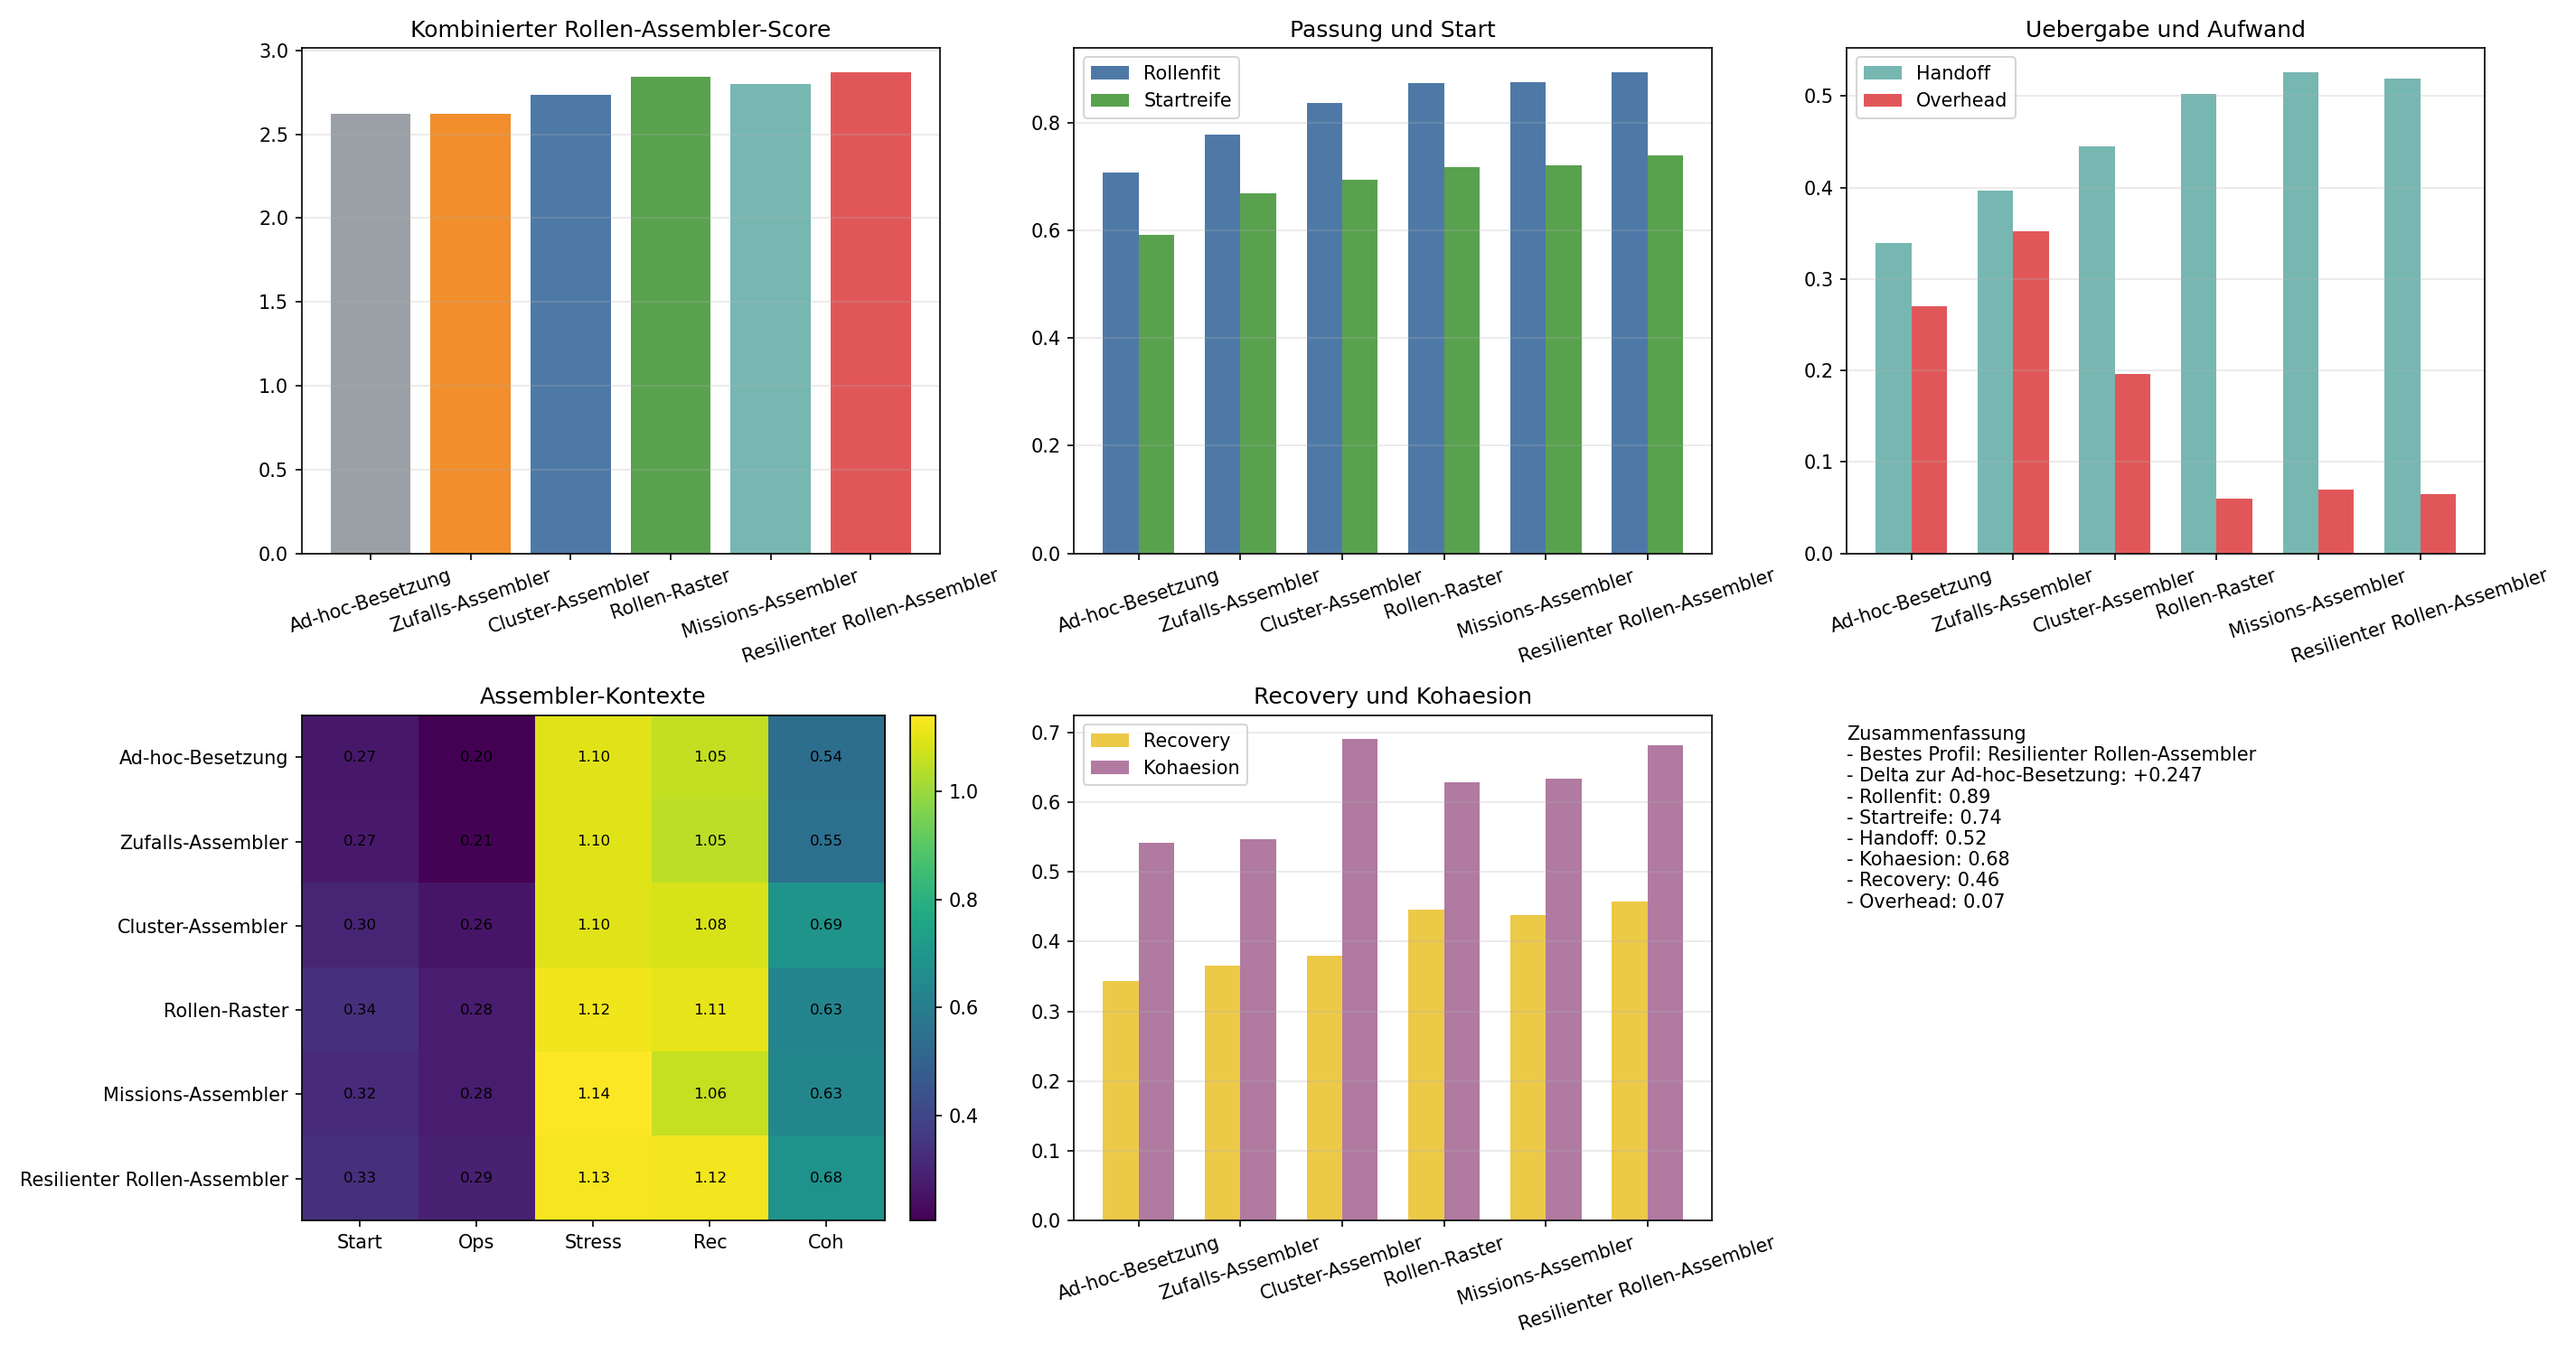
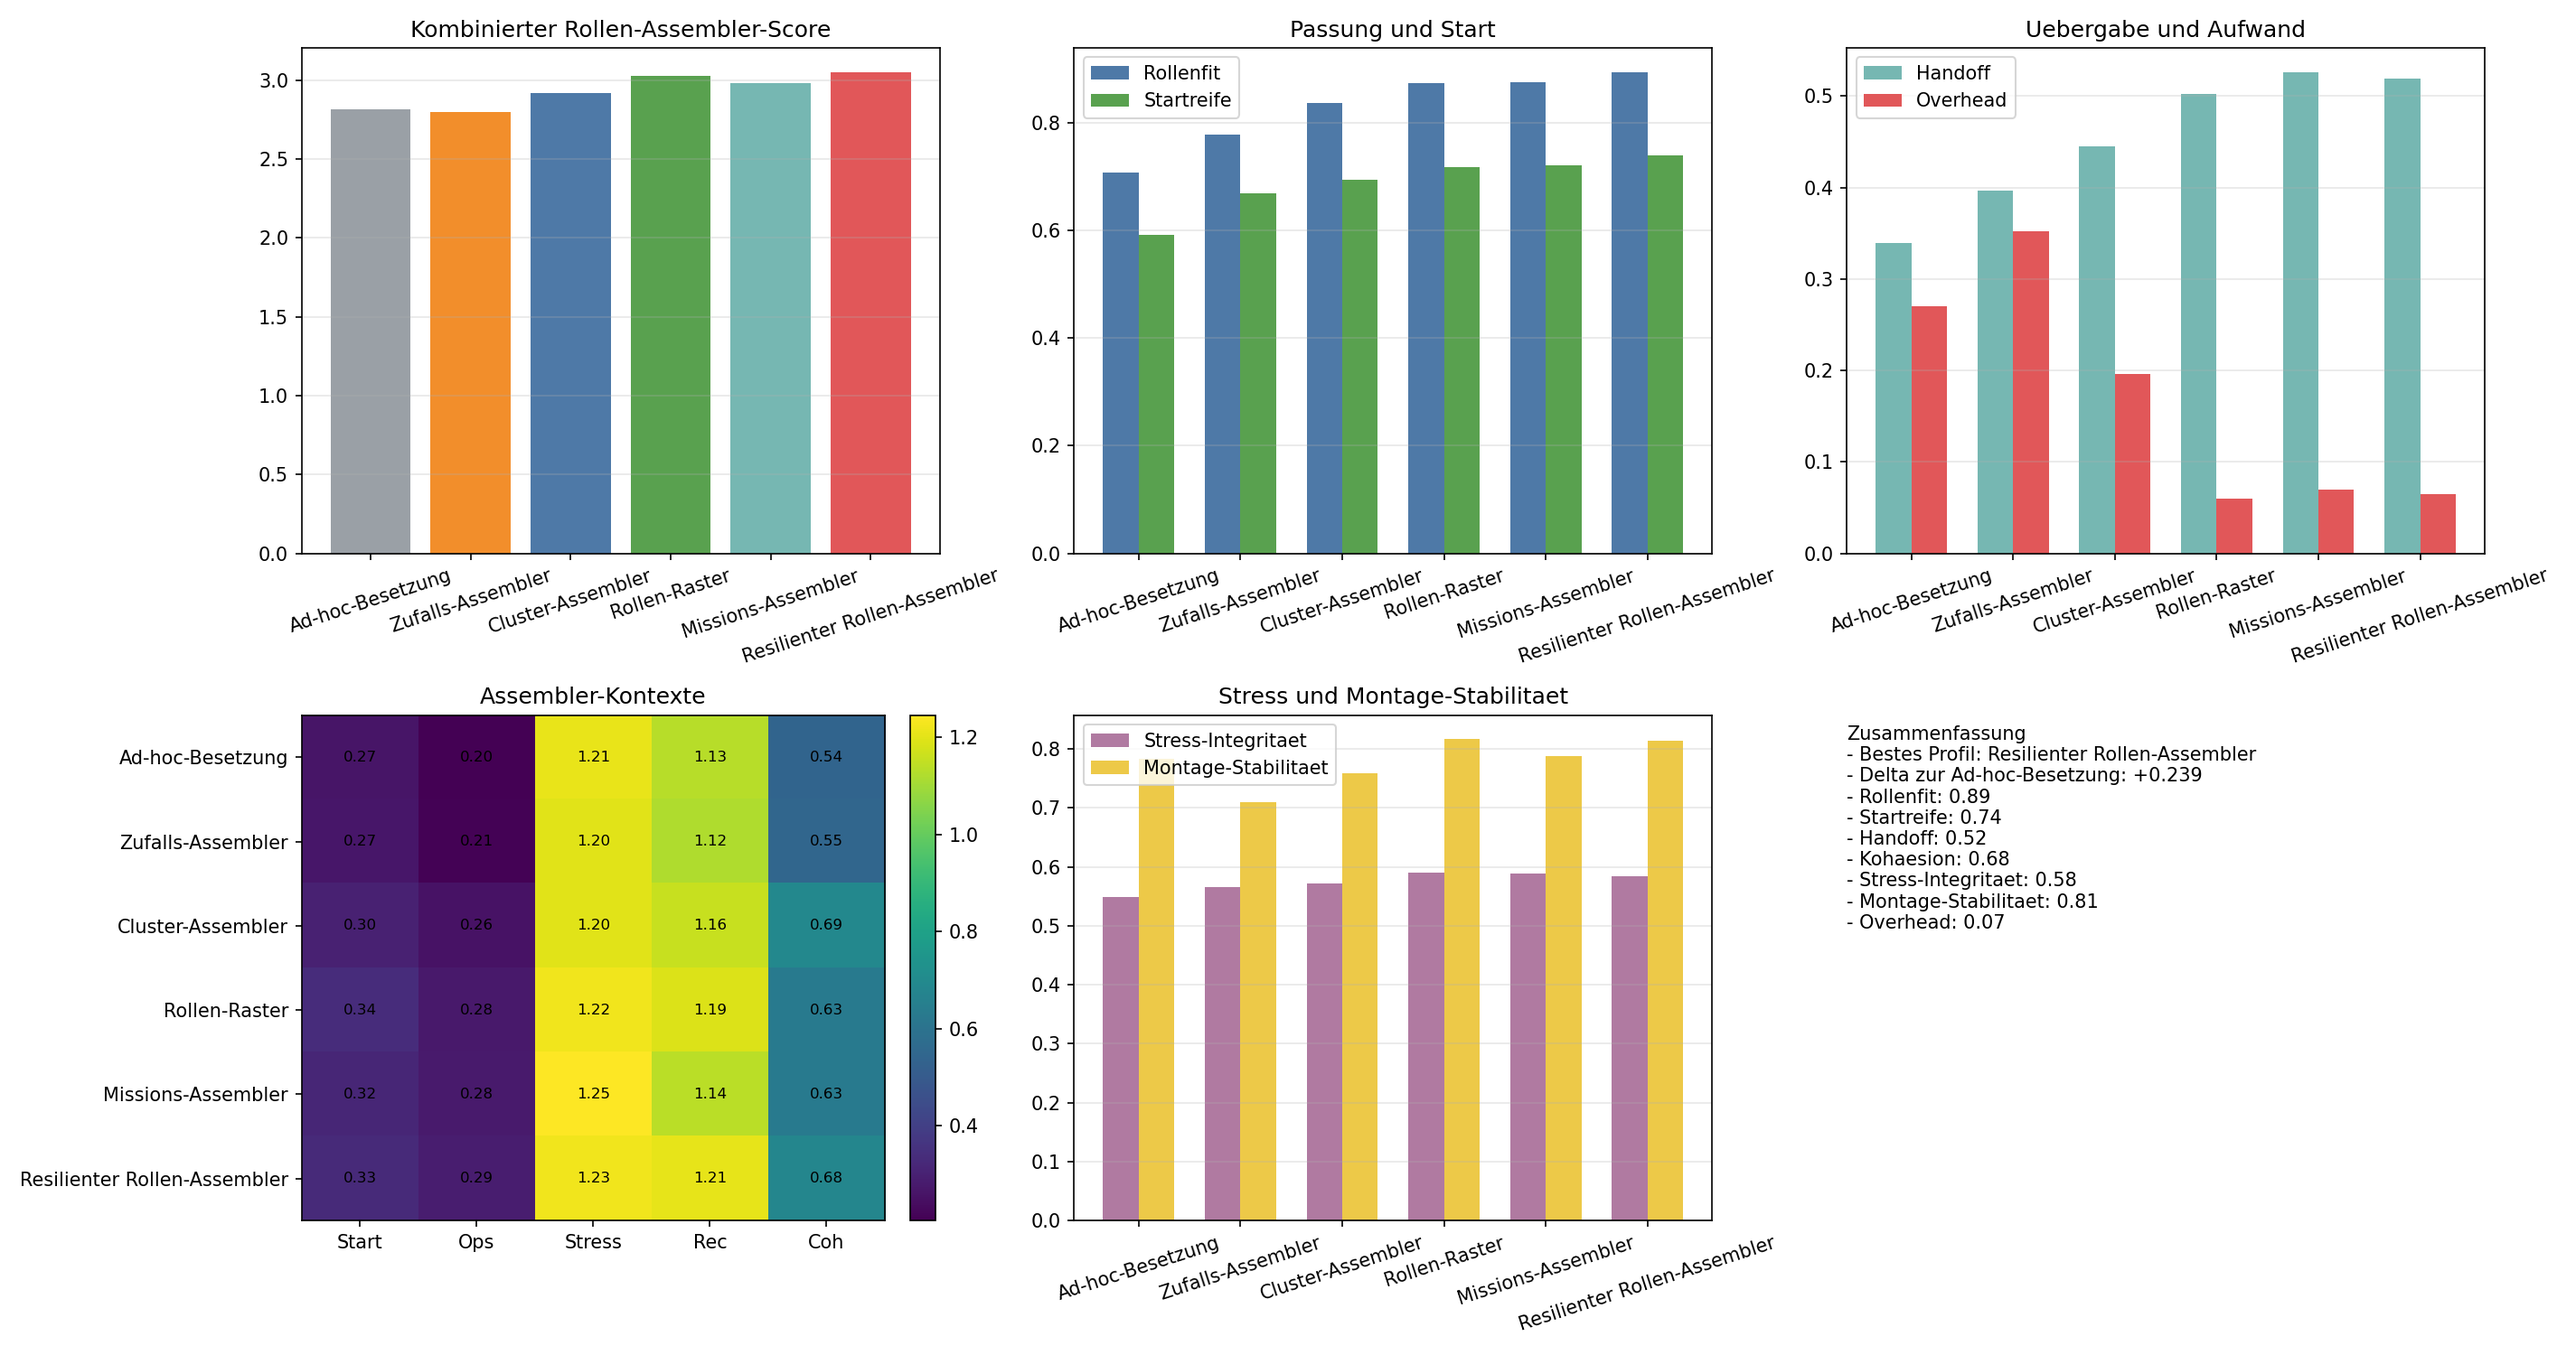
Refine role assembler stability metrics

Changed region(s): [[0.406, 0.4907, 0.6558, 0.92], [0.7182, 0.644, 0.8119, 0.7053]]

diff --git a/schwarm_rollenassembler.py b/schwarm_rollenassembler.py
@@ -293,6 +293,28 @@ def assembler_metrics(config, result, params, profile):
             ]
         )
     )
+    stress_integrity = clamp01(
+        mittelwert(
+            [
+                workflow.get('trust_shield_mean', 0.0),
+                workflow.get('sync_strength_mean', 0.0),
+                1.0 - workflow.get('misinformation_corruption_mean', 0.0),
+                1.0 - workflow.get('cluster_compromise_mean', 0.0),
+                handoff_readiness,
+            ]
+        )
+    )
+    assembly_stability = clamp01(
+        mittelwert(
+            [
+                role_fit,
+                assembly_cohesion,
+                workflow.get('completion_rate', 0.0),
+                workflow.get('resource_efficiency', 0.0),
+                1.0 - failed_share,
+            ]
+        )
+    )
     assembler_overhead = clamp01(
         mittelwert(
             [
@@ -324,6 +346,8 @@ def assembler_metrics(config, result, params, profile):
         'handoff_readiness': handoff_readiness,
         'assembly_cohesion': assembly_cohesion,
         'recovery_margin': recovery_margin,
+        'stress_integrity': stress_integrity,
+        'assembly_stability': assembly_stability,
         'assembler_overhead': assembler_overhead,
     }
 
@@ -389,15 +413,15 @@ def context_score(kontext_name, result, agent_count):
     if kontext_name == 'stress':
         return (
             base
-            + 0.14 * metrics['recovery_margin']
+            + 0.14 * metrics['stress_integrity']
             + 0.12 * metrics['assembly_cohesion']
-            - 0.14 * metrics['corruption_mean']
-            - 0.10 * metrics['cluster_compromise_mean']
+            + 0.10 * metrics['assembly_stability']
             - 0.08 * metrics['assembler_overhead']
         )
     return (
         base
         + 0.18 * metrics['recovery_margin']
+        + 0.10 * metrics['assembly_stability']
         + 0.12 * recoveries
         + 0.08 * metrics['handoff_readiness']
         - 0.12 * failed_share
@@ -413,6 +437,8 @@ def summarize_runs(runs, profile, context_list, agent_count):
         'handoff_readiness': {},
         'assembly_cohesion': {},
         'recovery_margin': {},
+        'stress_integrity': {},
+        'assembly_stability': {},
         'assembler_overhead': {},
     }
 
@@ -468,7 +494,7 @@ def main():
             f"{summary['label']:<28} Score={summary['combined_score']:+.3f} | "
             f"Fit={summary['role_fit']['startup']:.2f} | "
             f"Handoff={summary['handoff_readiness']['operations']:.2f} | "
-            f"Recovery={summary['recovery_margin']['recovery']:.2f}"
+            f"Stabilitaet={summary['assembly_stability']['stress']:.2f}"
         )
 
     best = max(summaries, key=lambda item: item['combined_score'])
@@ -482,7 +508,7 @@ def main():
     print(
         f"Rollenfit {best['role_fit']['startup']:.2f}, "
         f"Handoff {best['handoff_readiness']['operations']:.2f}, "
-        f"Recovery {best['recovery_margin']['recovery']:.2f}"
+        f"Stress-Integritaet {best['stress_integrity']['stress']:.2f}"
     )
 
     labels = [item['label'] for item in summaries]
@@ -564,19 +590,19 @@ def main():
 
     axes[1, 1].bar(
         x - width / 2,
-        [item['recovery_margin']['recovery'] for item in summaries],
+        [item['stress_integrity']['stress'] for item in summaries],
         width,
-        label='Recovery',
-        color='#edc948',
+        label='Stress-Integritaet',
+        color='#b07aa1',
     )
     axes[1, 1].bar(
         x + width / 2,
-        [item['assembly_cohesion']['operations'] for item in summaries],
+        [item['assembly_stability']['recovery'] for item in summaries],
         width,
-        label='Kohaesion',
-        color='#b07aa1',
+        label='Montage-Stabilitaet',
+        color='#edc948',
     )
-    axes[1, 1].set_title('Recovery und Kohaesion')
+    axes[1, 1].set_title('Stress und Montage-Stabilitaet')
     axes[1, 1].set_xticks(x)
     axes[1, 1].set_xticklabels(labels, rotation=18)
     axes[1, 1].legend()
@@ -586,17 +612,18 @@ def main():
     axes[1, 2].text(
         0.0,
         0.98,
-        (
-            "Zusammenfassung\n"
-            f"- Bestes Profil: {best['label']}\n"
-            f"- Delta zur Ad-hoc-Besetzung: {best['combined_score'] - baseline['combined_score']:+.3f}\n"
-            f"- Rollenfit: {best['role_fit']['startup']:.2f}\n"
-            f"- Startreife: {best['assembly_readiness']['startup']:.2f}\n"
-            f"- Handoff: {best['handoff_readiness']['operations']:.2f}\n"
-            f"- Kohaesion: {best['assembly_cohesion']['operations']:.2f}\n"
-            f"- Recovery: {best['recovery_margin']['recovery']:.2f}\n"
-            f"- Overhead: {best['assembler_overhead']['operations']:.2f}"
-        ),
+            (
+                "Zusammenfassung\n"
+                f"- Bestes Profil: {best['label']}\n"
+                f"- Delta zur Ad-hoc-Besetzung: {best['combined_score'] - baseline['combined_score']:+.3f}\n"
+                f"- Rollenfit: {best['role_fit']['startup']:.2f}\n"
+                f"- Startreife: {best['assembly_readiness']['startup']:.2f}\n"
+                f"- Handoff: {best['handoff_readiness']['operations']:.2f}\n"
+                f"- Kohaesion: {best['assembly_cohesion']['operations']:.2f}\n"
+                f"- Stress-Integritaet: {best['stress_integrity']['stress']:.2f}\n"
+                f"- Montage-Stabilitaet: {best['assembly_stability']['recovery']:.2f}\n"
+                f"- Overhead: {best['assembler_overhead']['operations']:.2f}"
+            ),
         va='top',
         fontsize=10,
     )
